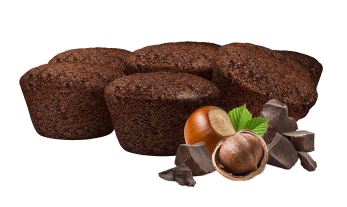
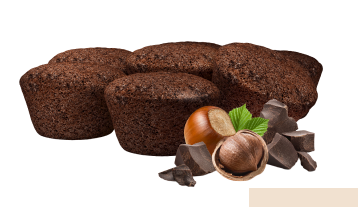
add background patterns

Changed region(s): [[0.0576, 0.1739, 1.0, 1.0], [0.2305, 0.6667, 0.2594, 0.6957], [0.0288, 0.3768, 0.0576, 0.4058]]

diff --git a/theme/themeData.tsx b/theme/themeData.tsx
@@ -26,6 +26,30 @@ import choclateCake from "../public/images/ingredients/choclate-cake.png";
 import hazelnut from "../public/images/ingredients/hazelnut.png";
 import raisin from "../public/images/ingredients/raisin.png";
 
+// Intro Bgs
+import carrotIntroBg from "../public/images/bgs/carrot-bg.png";
+import hazelnutIntroBg from "../public/images/bgs/hazelnut-bg.png";
+import raisinIntroBg from "../public/images/bgs/raisin-bg.png";
+import coconutIntroBg from "../public/images/bgs/coconut-bg.png";
+
+// Igredients Bgs
+import carrotDetailBg from "../public/images/bgs/carrot-detail-bg.png";
+import hazelnutDetailBg from "../public/images/bgs/hazelnut-detail-bg.png";
+import raisinDetailBg from "../public/images/bgs/raisin-detail-bg.png";
+import coconutDetailBg from "../public/images/bgs/coconut-detail-bg.png";
+
+// Blog Bgs
+import carrotBlogBg from "../public/images/bgs/carrot-blog-bg.png";
+import hazelnutBlogBg from "../public/images/bgs/hazelnut-blog-bg.png";
+import raisinBlogBg from "../public/images/bgs/raisin-blog-bg.png";
+import coconutBlogBg from "../public/images/bgs/coconut-blog-bg.png";
+
+// Single Bgs
+import carrotSingleBg from "../public/images/bgs/carrot-single-bg.png";
+import hazelnutSingleBg from "../public/images/bgs/hazelnut-single-bg.png";
+import raisinSingleBg from "../public/images/bgs/raisin-single-bg.png";
+import coconutSingleBg from "../public/images/bgs/coconut-single-bg.png";
+
 export const themeData: {
   [key: string]: {
     id: string;
@@ -38,6 +62,10 @@ export const themeData: {
       id: string;
       image: StaticImageData;
     }[];
+    introBg: StaticImageData;
+    detailBg: StaticImageData;
+    blogBg: StaticImageData;
+    singleBg: StaticImageData;
   };
 } = {
   carrot: {
@@ -57,6 +85,10 @@ export const themeData: {
         image: cake,
       },
     ],
+    introBg: carrotIntroBg,
+    detailBg: carrotDetailBg,
+    blogBg: carrotBlogBg,
+    singleBg: carrotSingleBg,
   },
   hazelnut: {
     id: "hazelnut",
@@ -75,6 +107,10 @@ export const themeData: {
         image: choclateCake,
       },
     ],
+    introBg: hazelnutIntroBg,
+    detailBg: hazelnutDetailBg,
+    blogBg: hazelnutBlogBg,
+    singleBg: hazelnutSingleBg,
   },
   raisin: {
     id: "raisin",
@@ -93,6 +129,10 @@ export const themeData: {
         image: cake,
       },
     ],
+    introBg: raisinIntroBg,
+    detailBg: raisinDetailBg,
+    blogBg: raisinBlogBg,
+    singleBg: raisinSingleBg,
   },
   coconut: {
     id: "coconut",
@@ -111,5 +151,9 @@ export const themeData: {
         image: cake,
       },
     ],
+    introBg: coconutIntroBg,
+    detailBg: coconutDetailBg,
+    blogBg: coconutBlogBg,
+    singleBg: coconutSingleBg,
   },
 };

diff --git a/pages/blog/[slug].tsx b/pages/blog/[slug].tsx
@@ -61,11 +61,23 @@ const Single: NextPage<InferGetStaticPropsType<typeof getStaticProps>> = ({
                   dangerouslySetInnerHTML={{ __html: content }}
                 />
               </motion.div>
+              <motion.div
+                initial={{ opacity: 0 }}
+                animate={{ opacity: 1 }}
+                exit={{ opacity: 0 }}
+                transition={{ duration: 1 }}
+                className="section__body__bg"
+              >
+                <Image
+                  src={themeData[`${themeCtx.theme}`].singleBg}
+                  alt="Single Background"
+                />
+              </motion.div>
             </div>
             <div
               className="section__image section__image--single"
               style={{
-                backgroundColor: `${themeData[`${themeCtx.theme}`].color}`,
+                background: `${themeData[`${themeCtx.theme}`].bg}`,
               }}
             >
               <motion.div

diff --git a/pages/index.tsx b/pages/index.tsx
@@ -64,11 +64,23 @@ export default function Home() {
                     <IngredientLink />
                   </div>
                 </div>
+                <motion.div
+                  initial={{ opacity: 0 }}
+                  animate={{ opacity: 1 }}
+                  exit={{ opacity: 0 }}
+                  transition={{ duration: 1 }}
+                  className="section__body__bg"
+                >
+                  <Image
+                    src={themeData[`${themeCtx.theme}`].introBg}
+                    alt="Intro Background"
+                  />
+                </motion.div>
               </div>
               <div
                 className="section__image section__image--intro"
                 style={{
-                  backgroundColor: `${themeData[`${themeCtx.theme}`].color}`,
+                  background: `${themeData[`${themeCtx.theme}`].bg}`,
                 }}
               >
                 <motion.div

diff --git a/pages/detail.tsx b/pages/detail.tsx
@@ -65,11 +65,23 @@ export default function Detail() {
                   ))}
                 </motion.div>
               </div>
+              <motion.div
+                initial={{ opacity: 0 }}
+                animate={{ opacity: 1 }}
+                exit={{ opacity: 0 }}
+                transition={{ duration: 1 }}
+                className="section__body__bg"
+              >
+                <Image
+                  src={themeData[`${themeCtx.theme}`].detailBg}
+                  alt="Intro Background"
+                />
+              </motion.div>
             </div>
             <div
               className="section__image section__image--ingredients"
               style={{
-                backgroundColor: `${themeData[`${themeCtx.theme}`].color}`,
+                background: `${themeData[`${themeCtx.theme}`].bg}`,
               }}
             >
               <motion.div

diff --git a/pages/blog/index.tsx b/pages/blog/index.tsx
@@ -54,11 +54,23 @@ export default function Blog() {
                   ))}
                 </div>
               </div>
+              <motion.div
+                initial={{ opacity: 0 }}
+                animate={{ opacity: 1 }}
+                exit={{ opacity: 0 }}
+                transition={{ duration: 1 }}
+                className="section__body__bg"
+              >
+                <Image
+                  src={themeData[`${themeCtx.theme}`].blogBg}
+                  alt="Blog Background"
+                />
+              </motion.div>
             </div>
             <div
               className="section__image"
               style={{
-                backgroundColor: `${themeData[`${themeCtx.theme}`].color}`,
+                background: `${themeData[`${themeCtx.theme}`].bg}`,
               }}
             >
               <motion.div

diff --git a/styles/layout/_section.scss b/styles/layout/_section.scss
@@ -29,7 +29,7 @@
   }
 
   &__nav {
-    @apply relative shrink-0;
+    @apply relative shrink-0 z-10;
     @apply flex justify-center lg:justify-start gap-5 lg:gap-8 mx-4 lg:mx-0 lg:px-6 py-0 my-6;
     @apply font-medium text-sm lg:text-base;
     @apply h-12;
@@ -76,6 +76,15 @@
     @apply w-full grow order-2 lg:order-1;
     @apply h-auto lg:h-full;
     @apply flex flex-col;
+
+    &__bg {
+      @apply absolute inset-0 w-full h-full;
+
+      img {
+        @apply -ml-20;
+        margin-top: 25%;
+      }
+    }
   }
 
   &__image {
@@ -107,7 +116,7 @@
 
       #{$parent} {
         &__layer {
-          // @apply bg-opacity-75;
+          @apply bg-opacity-75;
         }
       }
 

diff --git a/styles/components/_product_nav.scss b/styles/components/_product_nav.scss
@@ -1,5 +1,5 @@
 .product-nav {
-  @apply absolute left-0 right-0 m-auto;
+  @apply absolute left-0 right-0 m-auto z-10;
   @apply bg-raffia;
   width: 104px;
   height: 52px;
@@ -24,12 +24,4 @@
     @apply w-full;
     @apply flex items-center justify-center;
   }
-
-  // .prev {
-  //   border: 1px solid red;
-  // }
-
-  // .next {
-  //   border: 1px solid blue;
-  // }
 }

diff --git a/styles/components/_ingredient.scss b/styles/components/_ingredient.scss
@@ -1,5 +1,5 @@
 .ingredient {
-  @apply relative overflow-hidden;
+  @apply relative overflow-hidden z-10;
   @apply bg-parchment;
   @apply flex flex-col lg:flex-row items-center gap-4;
   @apply px-6 py-4;

diff --git a/styles/layout/_intro.scss b/styles/layout/_intro.scss
@@ -1,5 +1,5 @@
 .intro {
-  @apply h-full;
+  @apply relative z-10;
   @apply flex flex-col items-center justify-end;
   @apply lg:items-start;
 

diff --git a/styles/layout/_single.scss b/styles/layout/_single.scss
@@ -1,4 +1,5 @@
 .single {
+  @apply relative z-10;
   @apply flex flex-col items-center justify-end;
 
   @screen lg {

diff --git a/styles/components/_blog_item.scss b/styles/components/_blog_item.scss
@@ -1,4 +1,5 @@
 .blog-item {
+  @apply relative z-10;
   @apply flex flex-col;
   @apply lg:flex-row;
 
